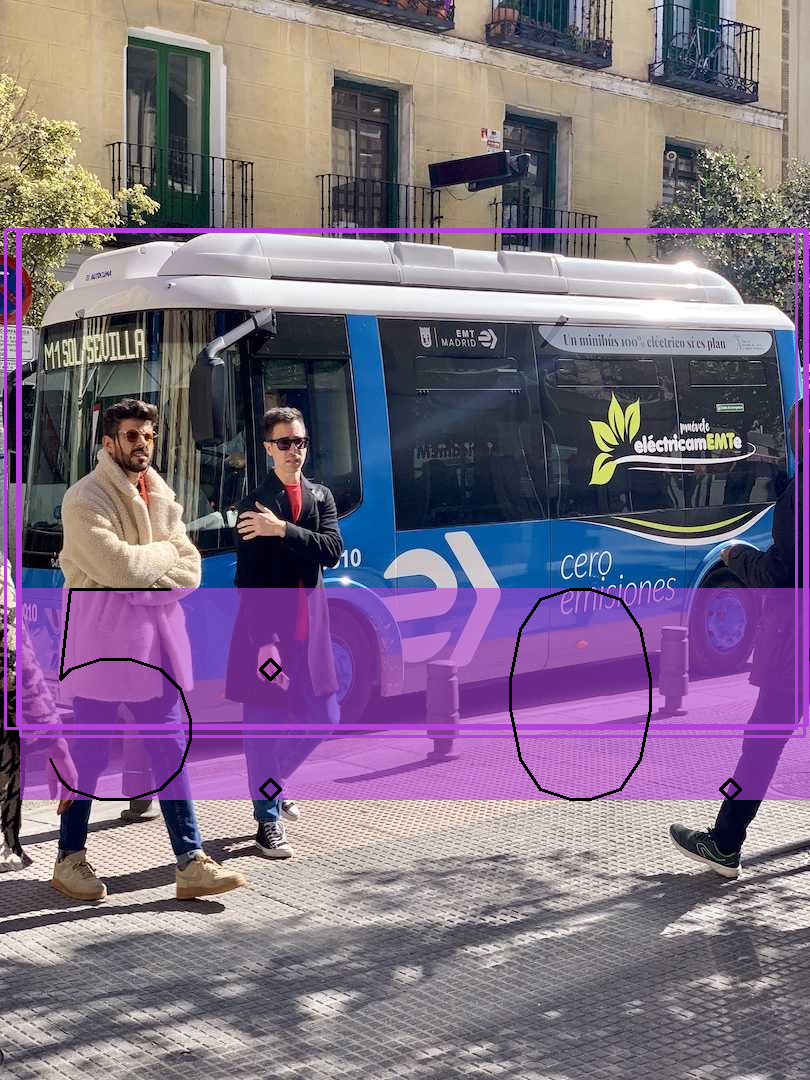
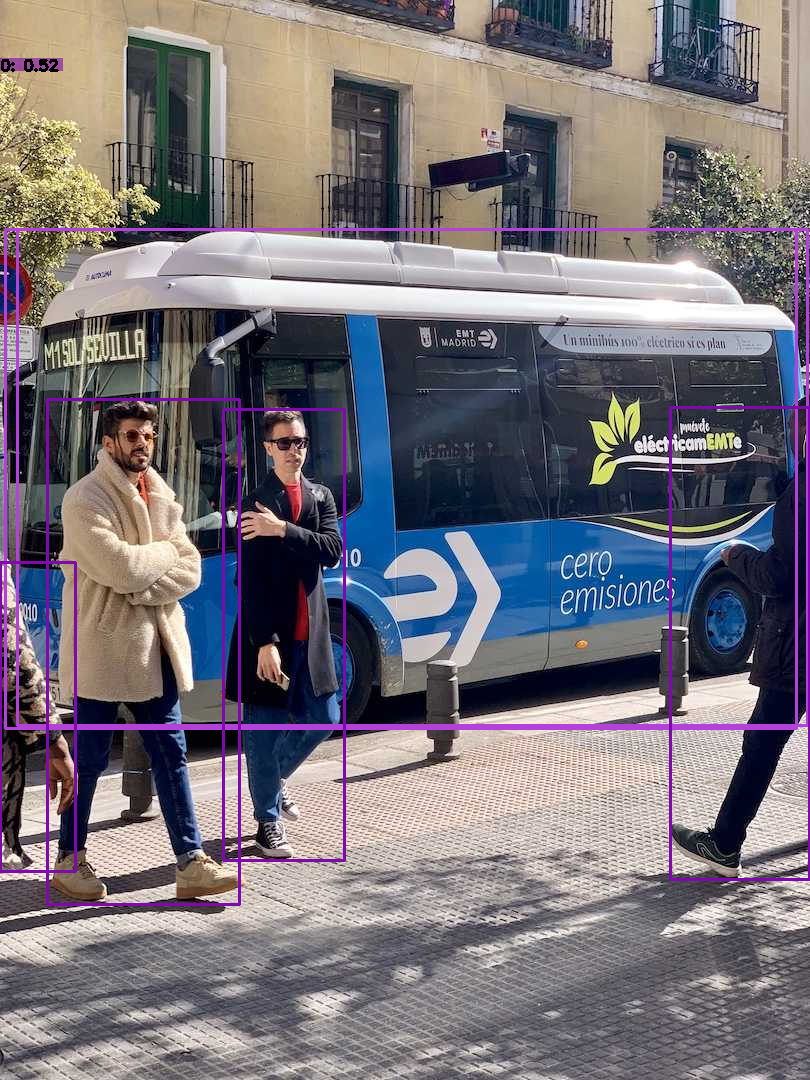
updating yolo example

Changed region(s): [[0.0, 0.2139, 1.0, 0.8556], [0.0, 0.0306, 0.0926, 0.0917]]

diff --git a/yolo/example.py b/yolo/example.py
@@ -104,7 +104,7 @@ def detect_objects(image_bytes):
     classes =[]
     results = model(image_bytes)  # predict on an image
     boxes = results[0].boxes
-    image_with_boxes = addBoxesImage(image_bytes, boxes)
+    image_with_boxes = addBoxesImage(image_bytes, boxes,model)
     return {"image": image_with_boxes}
 
 # We define helper functions 
@@ -126,7 +126,7 @@ def read_box(box):
     conf = round(box.conf[0].item(), 2)
     return [class_id, cords, conf]
                     
-def addBoxesImage(img,boxesInfo):
+def addBoxesImage(img,boxesInfo,model):
     colors = np.random.randint(0, 255, size=(len(model.names), 3), dtype="uint8")
     for box in boxesInfo:
         class_id=int(box.cls)
@@ -135,16 +135,16 @@ def addBoxesImage(img,boxesInfo):
         color = [int(c) for c in colors[class_id]]
         cv2.rectangle(img, (int(box.xyxy[0][0]), int(box.xyxy[0][1])), (int(box.xyxy[0][2]), int(box.xyxy[0][3])), color=color, thickness=2)
         text = f"{class_id}: {confidence:.2f}"
-        (text_width, text_height) = cv2.getTextSize(text, cv2.FONT_HERSHEY_SIMPLEX, fontScale=10, thickness=2)[0]
+        (text_width, text_height) = cv2.getTextSize(text, cv2.FONT_HERSHEY_SIMPLEX, fontScale=0.5, thickness=2)[0]
         text_offset_x = int(box.xyxy[0][0])
         text_offset_y = int(box.xyxy[0][2]) - 5
         box_coords = ((text_offset_x, text_offset_y), (text_offset_x + text_width + 2, text_offset_y - text_height))
         overlay = img.copy()
         cv2.rectangle(overlay, box_coords[0], box_coords[1], color=color, thickness=cv2.FILLED)
         image = cv2.addWeighted(overlay, 0.6, img, 0.4, 0)
-        cv2.putText(image, text, (int(box.xyxy[0][0]), int(box.xyxy[0][2]) - 5), cv2.FONT_HERSHEY_SIMPLEX,fontScale=10, color=(0, 0, 0), thickness=2)
-        cv2.imwrite("example_yolo.png", image)
-        return image
+        cv2.putText(image, text, (int(box.xyxy[0][0]), int(box.xyxy[0][2]) - 5), cv2.FONT_HERSHEY_SIMPLEX,fontScale=0.5, color=(0, 0, 0), thickness=2)
+    cv2.imwrite("example_yolo.png", image)
+    return image
         #cv2.imwrite(currentImage + "_yolo.png", image)
 
                                                                                                                             
